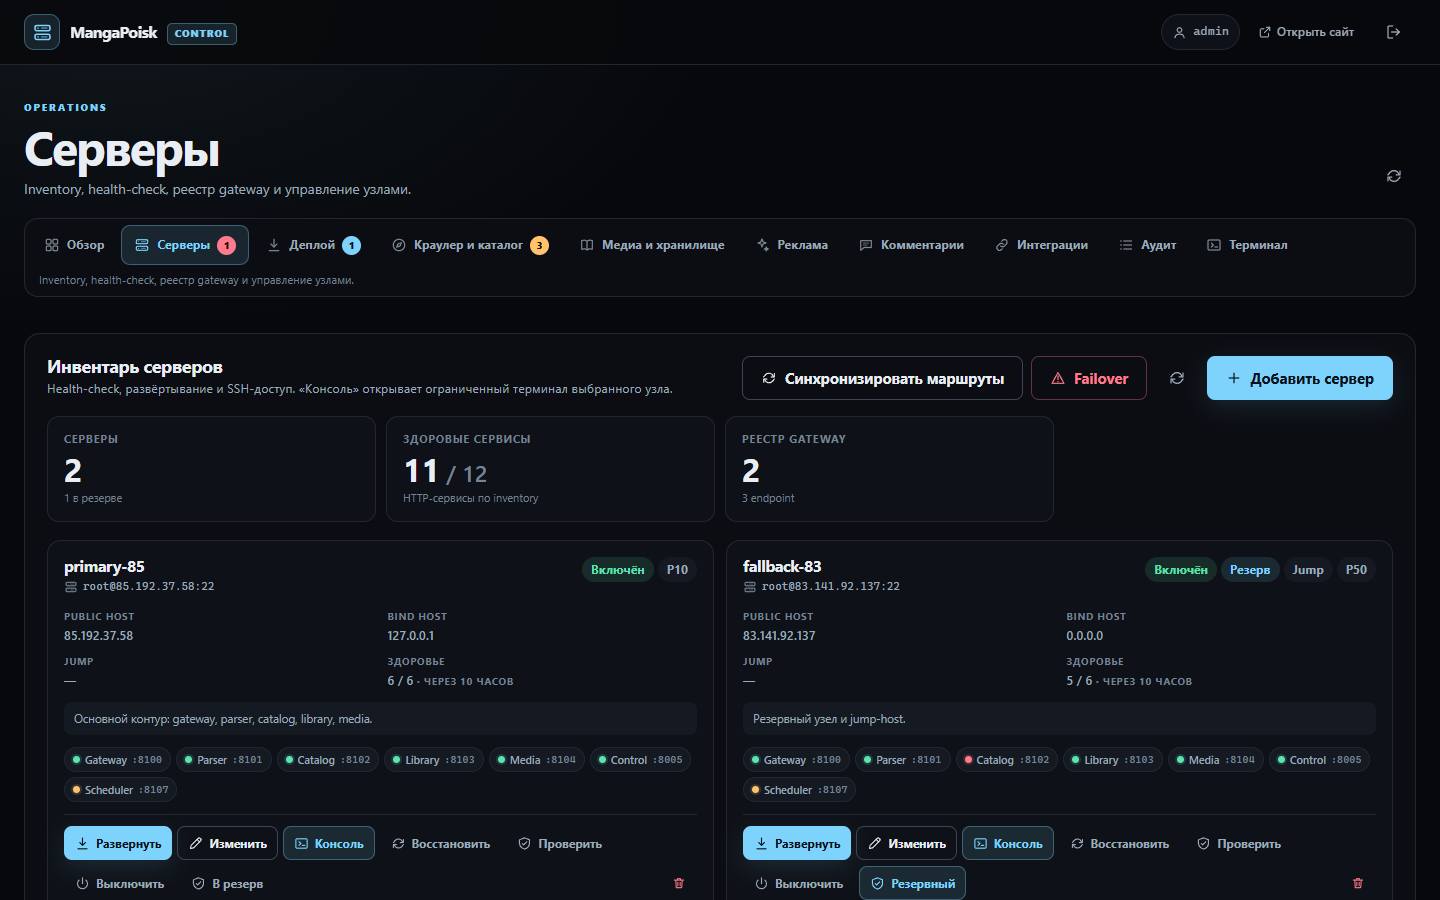
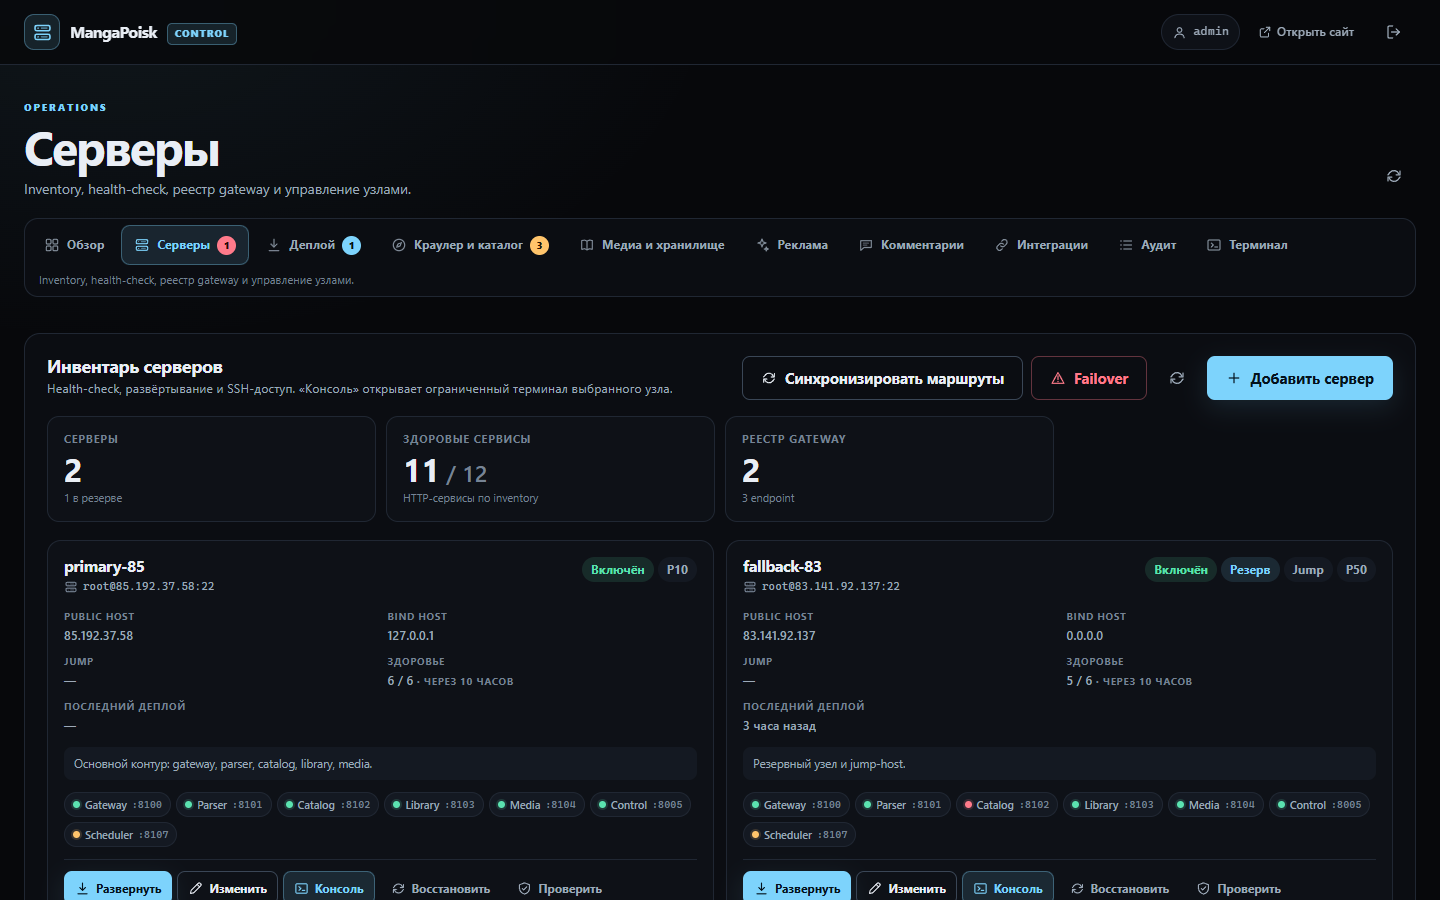
feat(admin): show last deploy on server cards

diff --git a/apps/web/src/pages/AdminPage.tsx b/apps/web/src/pages/AdminPage.tsx
@@ -341,6 +341,16 @@ export default function AdminPage() {
     toast.info('Вы вышли из Control');
   };
 
+  const lastDeployByServer = useMemo(() => {
+    const result = new Map<string, string>();
+    for (const job of jobs) {
+      if (job.status !== 'done' || !job.created_at) continue;
+      const current = result.get(job.server_id);
+      if (!current || job.created_at > current) result.set(job.server_id, job.created_at);
+    }
+    return result;
+  }, [jobs]);
+
   const badges = useMemo<Partial<Record<AdminTabId, AdminTabBadge>>>(() => {
     const httpServices = servers.flatMap((server) =>
       server.services.filter((service) => service.code !== 'scheduler'),
@@ -454,6 +464,7 @@ export default function AdminPage() {
           <TabPanel id="servers" active={activeTab === 'servers'}>
             <ServersPanel
               servers={servers}
+              lastDeployByServer={lastDeployByServer}
               serversLoading={serversQuery.isLoading}
               serversError={serversQuery.isError}
               serversFetching={serversQuery.isFetching}

diff --git a/apps/web/src/pages/admin/ServersPanel.tsx b/apps/web/src/pages/admin/ServersPanel.tsx
@@ -16,6 +16,7 @@ import { formatDateTime, formatInt } from '../../lib/format';
 
 interface ServersPanelProps {
   servers: AdminServer[];
+  lastDeployByServer: Map<string, string>;
   serversLoading: boolean;
   serversError: unknown;
   serversFetching: boolean;
@@ -71,6 +72,7 @@ function RegistryRow({ endpoint, active }: { endpoint: AdminRegistryEndpoint; ac
 
 export function ServersPanel({
   servers,
+  lastDeployByServer,
   serversLoading,
   serversError,
   serversFetching,
@@ -219,6 +221,7 @@ export function ServersPanel({
               <AdminServerCard
                 key={server.id}
                 server={server}
+                lastDeployAt={lastDeployByServer.get(server.id) ?? null}
                 updatePending={updatePendingId === server.id}
                 healthPending={healthPendingId === server.id}
                 onEdit={onEdit}

diff --git a/apps/web/src/components/admin/AdminServerCard.tsx b/apps/web/src/components/admin/AdminServerCard.tsx
@@ -6,6 +6,7 @@ import { DancingSpinner } from '../DancingLoader';
 
 interface AdminServerCardProps {
   server: AdminServer;
+  lastDeployAt: string | null;
   updatePending: boolean;
   healthPending: boolean;
   onEdit: (server: AdminServer) => void;
@@ -24,6 +25,7 @@ function serviceLabel(code: string): string {
 
 export function AdminServerCard({
   server,
+  lastDeployAt,
   updatePending,
   healthPending,
   onEdit,
@@ -89,6 +91,10 @@ export function AdminServerCard({
             {healthy} / {checked}{' '}
             {lastCheck ? <span className="admin-server-card__since">· {formatRelative(lastCheck)}</span> : null}
           </strong>
+        </div>
+        <div>
+          <span>Последний деплой</span>
+          <strong>{lastDeployAt ? formatRelative(lastDeployAt) : '—'}</strong>
         </div>
       </div>
 
